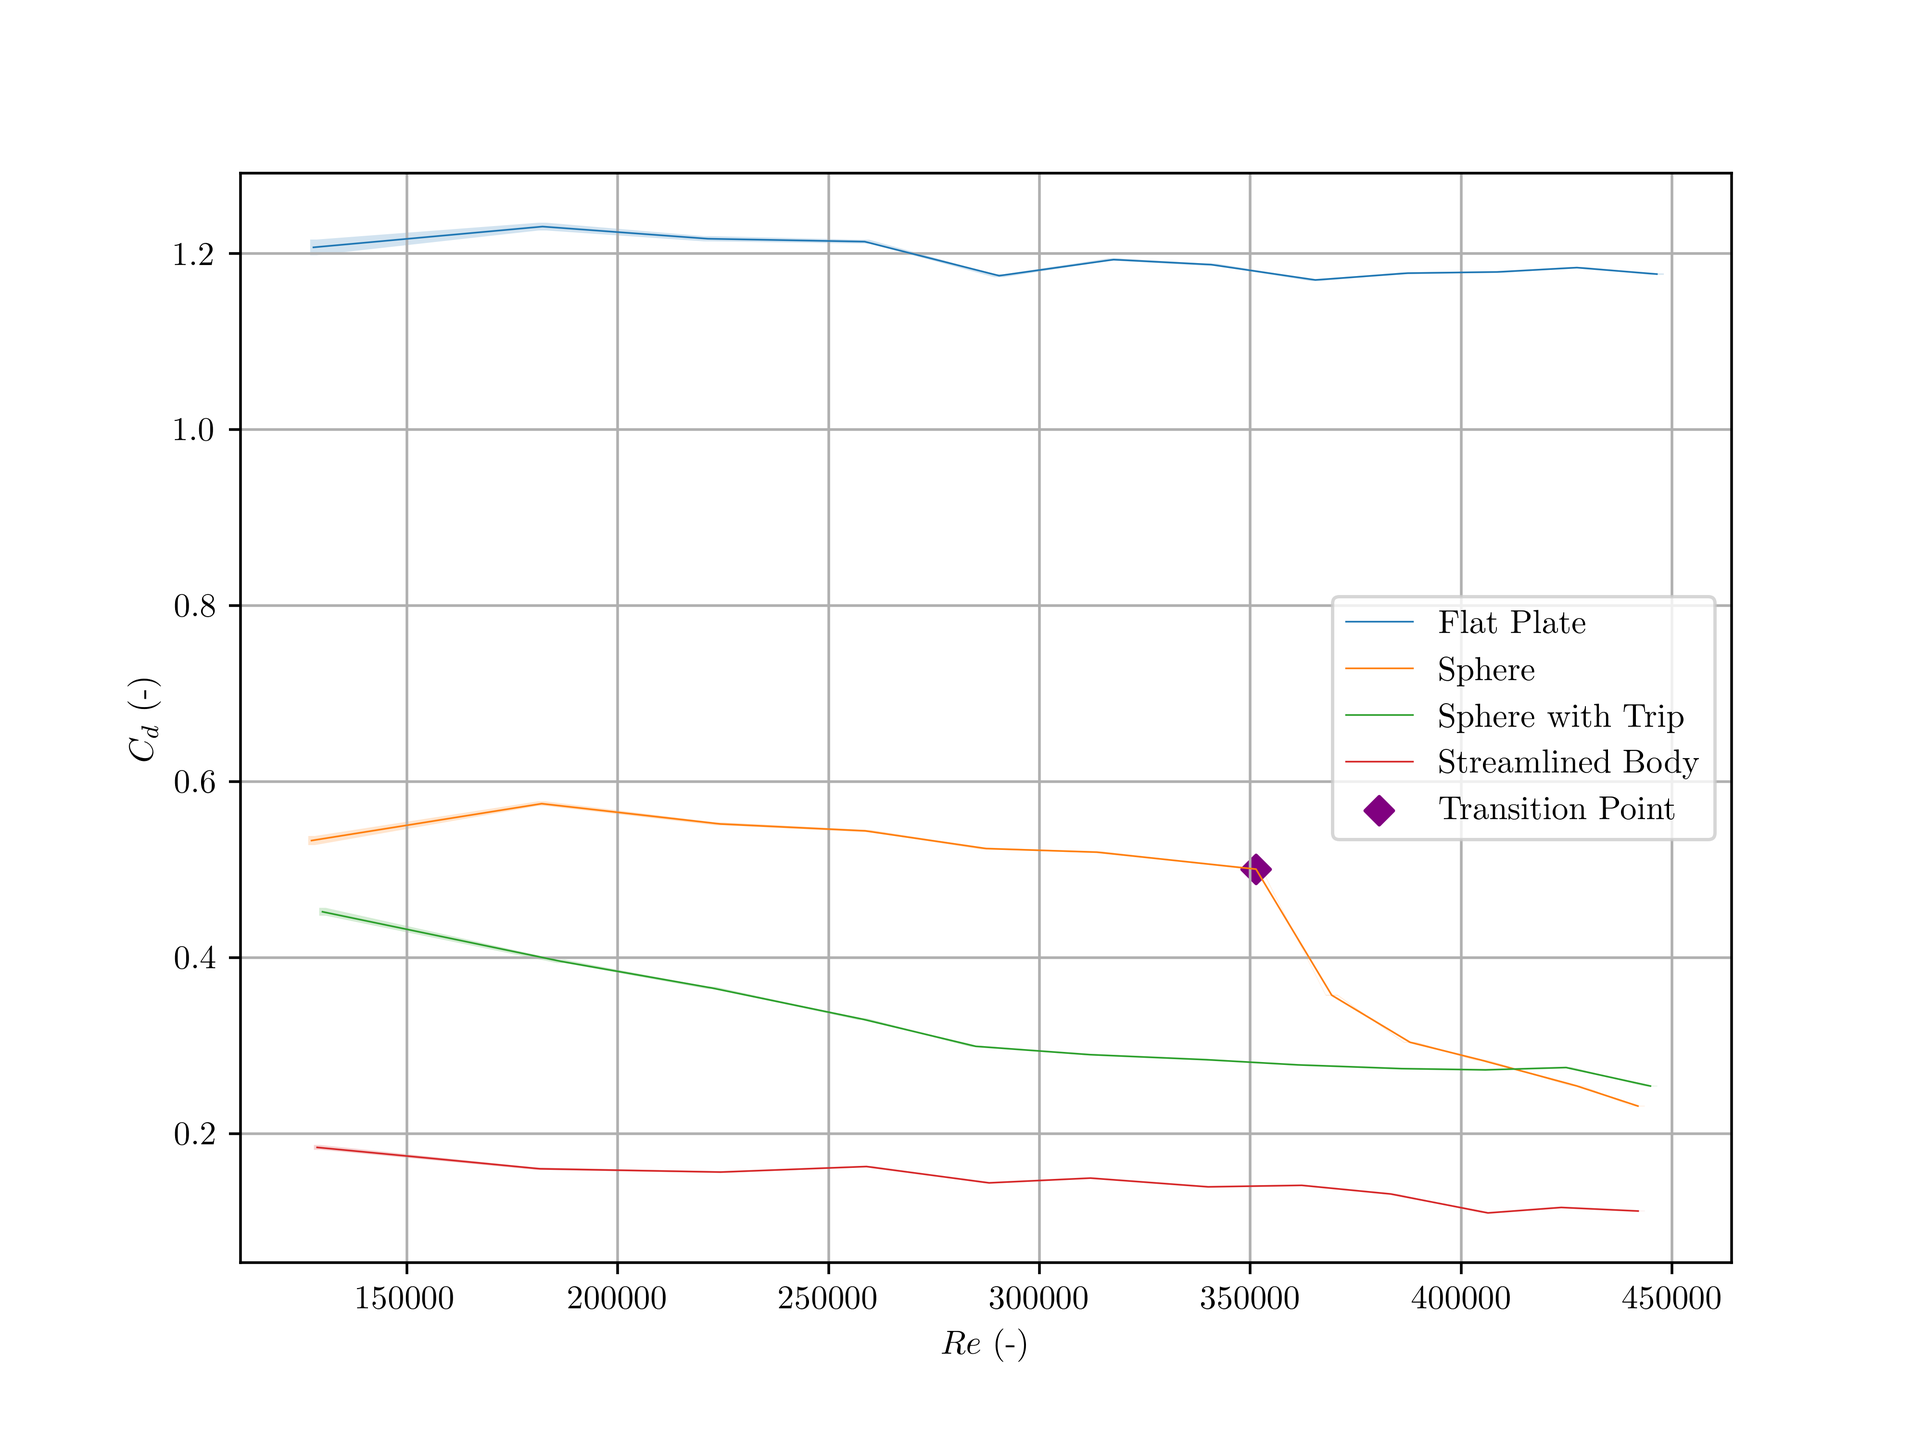
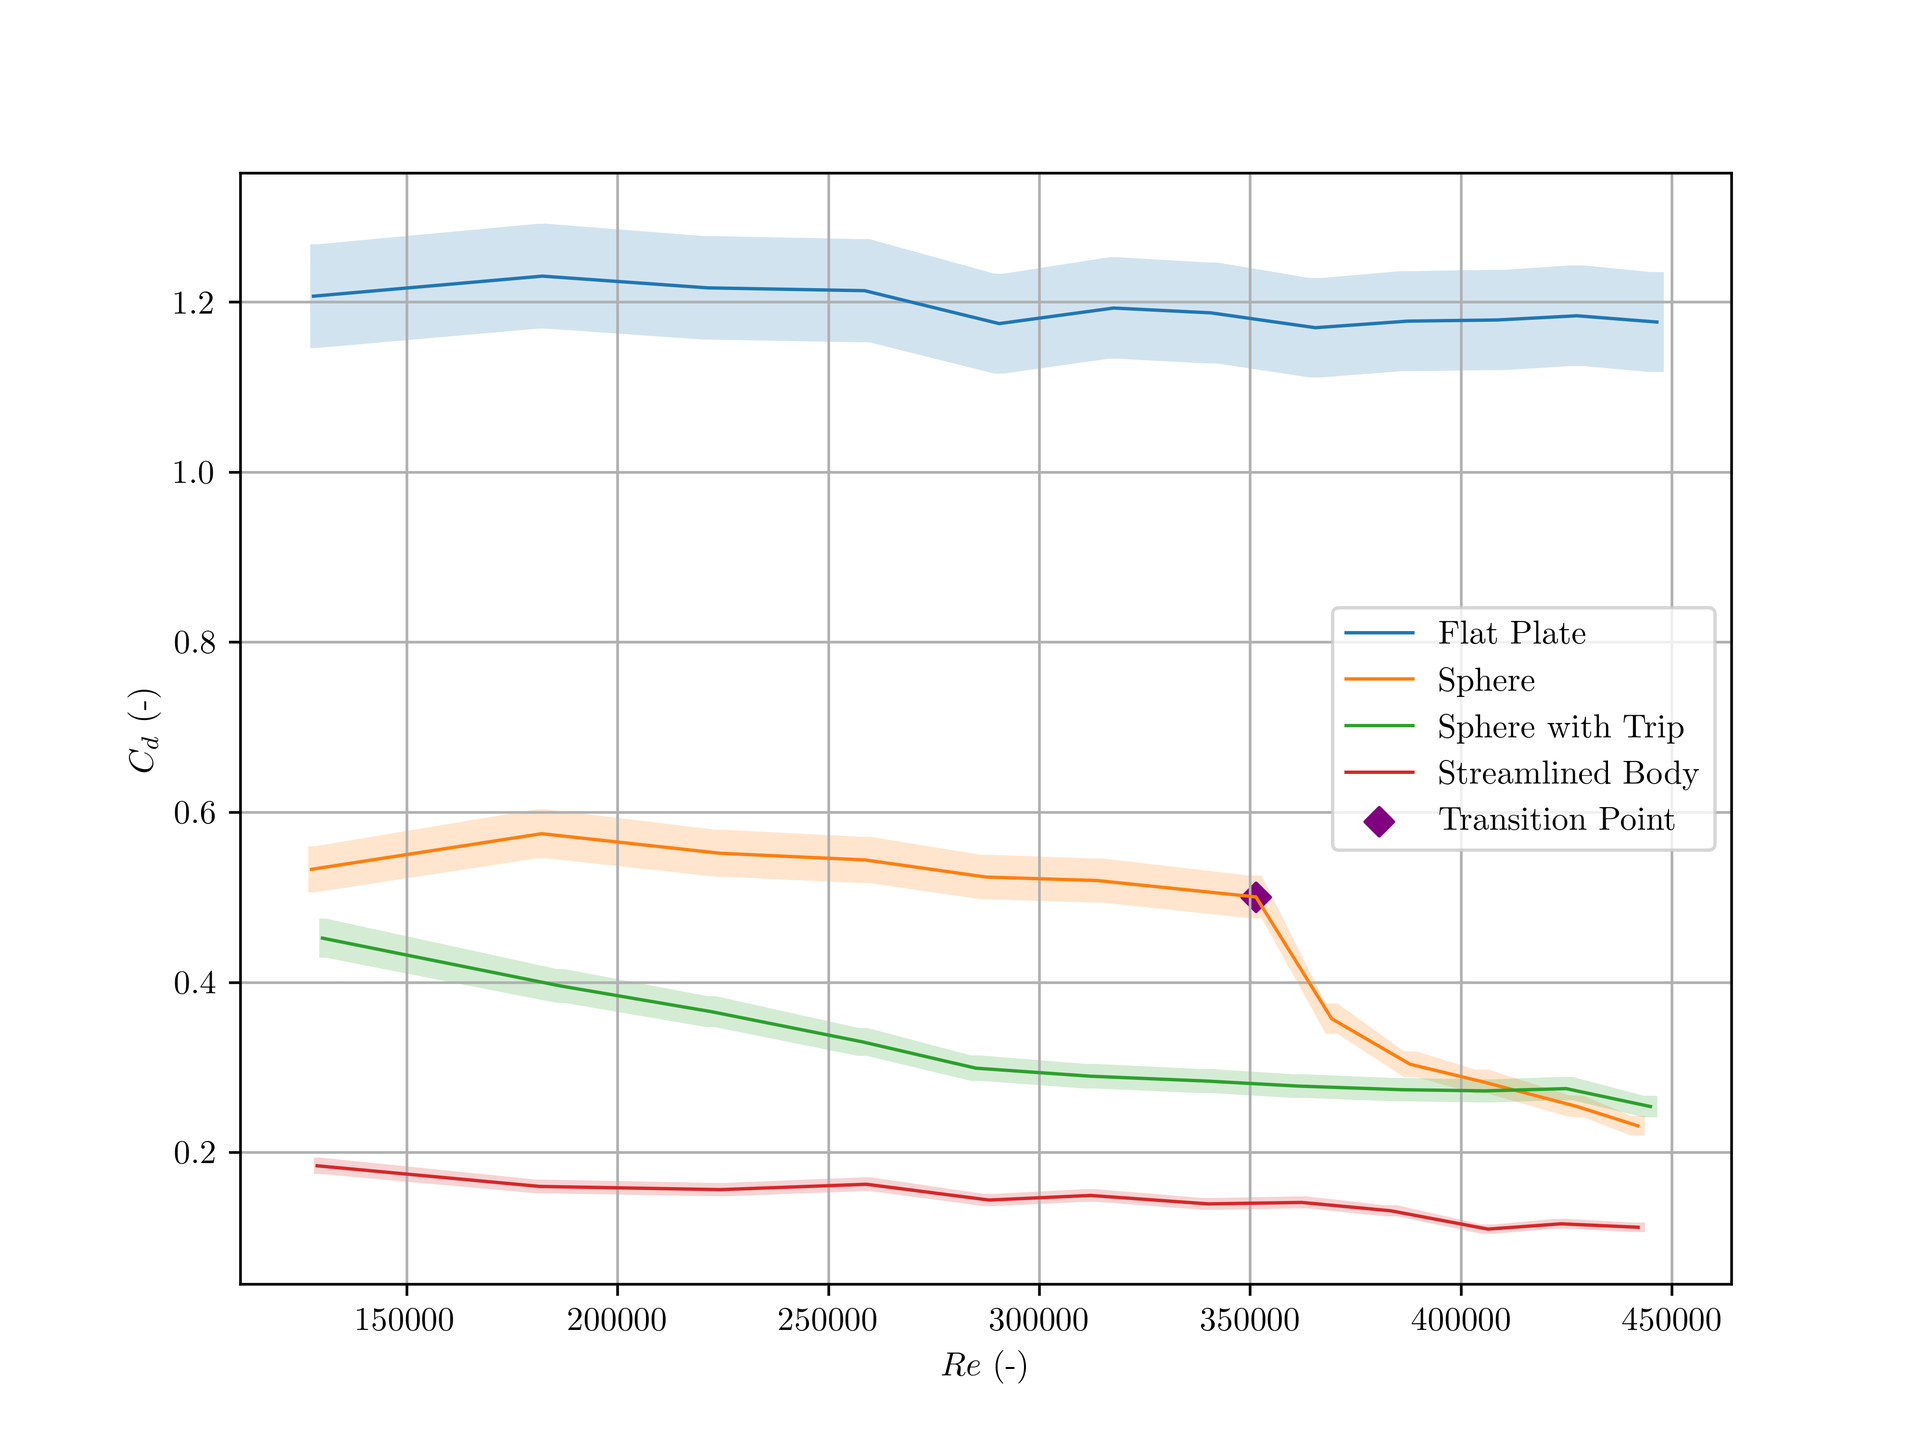
finished all short reports for the year

diff --git a/IIA/3A1/Drag_bluff_and_streamlined/report.tex b/IIA/3A1/Drag_bluff_and_streamlined/report.tex
@@ -34,10 +34,8 @@ The understanding of drag force for various bodies, and flow regimes is crucial 
 In this report, the drag force on a sphere, flat plate and streamlined body is measured and a graph of drag coefficient against Reynolds number is plotted.
 The spherical body was tested with and without a turbulence inducing trip wire to investigate the difference.
 The flow patterns around the bodies are also visualised using tufts and streamlines.
-
-\section{Method}
 Each body was placed in the Markham wind tunnel and 12 measurements of drag were taken at $1$mBar intervals of dynamic pressures up to $12$mBar.
-A counterweight was used to balance the drag force such that the body remained in the same position. The drag force was a factor of the weight added.
+A counterweight was used to balance the drag force such that the body remained in the same position.
 
 \section{Theory}
 
@@ -45,7 +43,7 @@ A counterweight was used to balance the drag force such that the body remained i
 
 The flow is taken to be invicid and in the large section before the contraction of the Markham Tunnel, the velocity is negligible, and so the pressure there is the stagnation pressure $p_0$.
 \begin{equation}
-    p_0 + 0 = p + \frac{1}{2}\rho U^2 \implies U = \sqrt{\frac{2(p_0-p)}{\rho_a}}
+    p_0 + 0 = p + \frac{1}{2}\rho_a U^2 \implies U = \sqrt{\frac{2(p_0-p)}{\rho_a}}
     \label{eq1}
 \end{equation}
 The pressure difference between the large section and working section, $p_0 - p$ is measured by a pressure transducer.
@@ -55,9 +53,16 @@ The pressure difference between the large section and working section, $p_0 - p$
 \end{equation}
 The drag coefficient is calculated from the drag force, $D$, the frontal area, $S$, and the dynamic pressure.
 \begin{equation}
-    D = C_d \frac{1}{2} \rho U^2 S \implies C_d = \frac{2D}{ \rho U^2 S}
+    D = C_d \frac{1}{2} \rho_a U^2 S \implies C_d = \frac{2D}{ \rho_a U^2 S}
+    \label{eq3}
 \end{equation}
-The density of air is calculated from measured temperature and pressure using the ideal gas law.
+This gives the total drag coefficient from both the body and the wire support structure.
+The support structure drag coefficient is given as $C_{d, support} = 0.10$ and so the drag coefficient of the body is calculated by subtracting this from the total drag coefficient.
+This value is also assumed to be constant with Reynolds number, but is taken to have an uncertainty which is discussed in the next section.
+\begin{equation}
+    C_{d, body} = C_{d, total} - C_{d, support}
+\end{equation}
+The density of air is calculated from measured temperature and atmospheric pressure using the ideal gas law.
 \begin{equation}
     \rho_a = \frac{P}{RT}
 \end{equation}
@@ -68,7 +73,7 @@ Sources of uncertainty in calculating Reynolds number in equation \ref{re} is sh
 \begin{equation}
     u(Re) = u(U) + u(d) + u(\nu)
 \end{equation}
-The relative uncertainties, $u(D)$ and $u(\nu)$ are negligible compared to $u(U)$ as the diameter was measured to a higher degree of precision and the viscosity change for the uncertainty in measured temperature is also negligible.
+The relative uncertainties, $u(d)$ and $u(\nu)$ are negligible compared to $u(U)$ as the diameter was measured to a higher degree of precision and the viscosity change for the uncertainty in measured temperature is also negligible.
 \begin{equation}
     u(Re) \approx u(U) = \frac{1}{2}u(p_0-p) + \frac{1}{2}u(\rho_a)
     \label{eq5}
@@ -80,13 +85,30 @@ From considering uncertainty from ideal gas law, .
 
 Sources of uncertainty in $C_d$, taking $S=\pi d^2/4$.
 \begin{equation}
-    u(C_d) = u(D) + u(\rho_a U^2) + u(S) = u(D) + u(\frac{1}{2}\rho_a U^2) + 2u(d)
+    u(C_d) = u(D) + u(\rho_a U^2) + u(S) = u(D) + u \left( \frac{1}{2}\rho_a U^2 \right) + 2u(d)
 \end{equation}
 Substituting equation \ref{eq1} and same reasoning as for equation \ref{eq5} that $u(d)$ is negligible.
 \begin{equation}
     u(C_d) \approx u(D) + u(p_0-p)
 \end{equation}
+However, this is the uncertainty in the total drag coefficient.
+The uncertainty in the drag coefficient is found using the uncertainty in the support structure drag coefficient as seen below.
+\begin{equation}
+    u(C_{d, body}) = \sqrt{u(C_{d, total})^2 + u(C_{d, support})^2}
+\end{equation}
+The support structure drag coefficient is given as $C_{d, support} = 0.10$, which is assumed to be accurate to the 2 decimal places, and so the absolute uncertainty is $\pm 0.005$.
 
+For completeness, the uncertainty in the corrected drag force is calculated below.
+\begin{equation}
+    D_{body} = D - D_{support} \implies u(D_{body} ) = \sqrt{u(D)^2 + u(D_{support})^2} \\
+\end{equation}
+\begin{equation}
+    D_{support} = C_{d, support} \frac{1}{2} \rho_a U^2 S \implies u(D_{support}) = u(C_{d, support}) + u \left( \frac{1}{2}\rho_a U^2 \right) + u(S)
+\end{equation}
+\begin{equation}
+    u(D_{support}) \approx u(C_{d, support}) + u(p_0-p)
+\end{equation}
+From these, the body drag and uncertainty band can be plotted against flow velocity.
 
 \subsection{Measurement Uncertainty}
 The measurement of dynamic pressure, $p_0-p$, was done with a calibrated pressure sensor, and so the source of absolute uncertainty is taken at the 2 decimal point precision of the sensor.
@@ -102,11 +124,18 @@ The Temperature was measured with a temperature gauge with a precision of $1^oC$
 The pressure was measured in inches of mercury, with a very high precision of $0.001$ inches.
 Changes in mercury's density for the small temperature changes are also negligible and so the atmospheric pressure has negligible uncertainty.
 
-\section{Results and Drawings}
+\section{Results}
 
 \begin{figure}[H]
     \centering
-    \includegraphics[width=0.8\textwidth]{Re_vs_Cd.png}
+    \includegraphics[width=0.75\textwidth]{U_vs_D.png}
+    \caption{Graph of corrected drag force, $D_c$ against flow velocity, $U$}
+    \label{fig:graph1}
+\end{figure}
+
+\begin{figure}[H]
+    \centering
+    \includegraphics[width=0.75\textwidth]{Re_vs_Cd.png}
     \caption{Graph of drag coefficient against Reynolds number for various bodies}
     \label{fig:figure1}
 \end{figure}
@@ -116,17 +145,17 @@ Changes in mercury's density for the small temperature changes are also negligib
     \begin{subfigure}[t]{0.45\textwidth}
         \centering
         \includegraphics[width=1\textwidth]{Images_Videos/early_seperation_annotated.jpg}
-        \caption{Seperation before shoulder at low Reynolds number}
+        \caption{Separation before shoulder at low Reynolds number}
         \label{fig:figure2}
     \end{subfigure}
     ~
     \begin{subfigure}[t]{0.48\textwidth}
         \centering
         \includegraphics[width=1\textwidth]{Images_Videos/late_seperation_annotated.jpg}
-        \caption{Seperation after shoulder at high Reynolds number}
+        \caption{Separation after shoulder at high Reynolds number}
         \label{fig:figure3}
     \end{subfigure}
-    \caption{Seperation points for flow over sphere at low and high Reynolds number indicated by parafin oil}
+    \caption{Separation points for flow over sphere at low and high Reynolds number indicated by parafin oil}
 \end{figure}
 
 \begin{figure}[H]
@@ -188,14 +217,14 @@ Changes in mercury's density for the small temperature changes are also negligib
     \begin{subfigure}[t]{0.48\textwidth}
         \centering
         \includegraphics[width=1\textwidth]{Images_Videos/stream_streamlined_2.jpg}
-        \caption{Seperation before shoulder}
+        \caption{Separation before shoulder}
         \label{fig:figure10}
     \end{subfigure}
     ~
     \begin{subfigure}[t]{0.42\textwidth}
         \centering
         \includegraphics[width=1\textwidth]{Images_Videos/Streamlined_8milibar.JPG}
-        \caption{Seperation after shoulder at higher Re}
+        \caption{Separation after shoulder at higher Re}
         \label{fig:figure11}
     \end{subfigure}
     \caption{Streamlines and tuft visualisation for streamlined body}
@@ -205,29 +234,37 @@ Changes in mercury's density for the small temperature changes are also negligib
 
 % 1. Discuss the observations and measurements of the forces and flow fields around the three bodies. Sketch the flow patterns.
 
-Generally, the drag force was observed to increase with increasing flow velocity, as expected.
-However for the untripped sphere, the drag force decreased for an i ncrease in flow speed at a critical Reynolds number.
-Temperature was observed to increase in the tunnel by $3^oC$ over the course of the experiment, which was accounted for in the calculation of air density and viscosity.
+From figure \ref{fig:graph1}, the drag force is shown to increase with flow velocity in all cases except the untripped sphere.
+However for the untripped sphere, after a critical point, the drag force started to decrease for an increase in flow speed.
+Temperature was observed to increase in the tunnel by $3^oC$ over the course of the experiment, which was accounted for in the calculation of air density and tabulated viscosity.
 This is caused by the recycled air in the Markham tunnel being heated by the fan compression.
-
-The flow patterns around the bodies were visualised using tufts which are parallel to the streamlines.
-These can be seen in figures \ref{fig:figure5}, \ref{fig:figure7} and \ref{fig:figure11} for the flat plate, sphere and streamlined body respectively.
-
-These show...
-
 
 Figure \ref{fig:figure1} shows the plot of drag coefficient, $C_d$ vs Reynolds number, $Re$ for the various bodies. 
 For the sphere, the critical Reynolds number where the drag coefficient rapidly decreases is marked on the graph.
-This is due to seperation occuring behind the maximum circumference shoulder and so the size of the size of the wake is reduced.
-This was further demonstrated by spraying parafin oil on the sphere and observing where the oil collected on the surface.
-Photos of the seperation point at low and high Reynolds number are shown in figures \ref{fig:figure2} and \ref{fig:figure3} respectively.
+This is due to separation occurring behind the maximum circumference shoulder and so the size of the wake is reduced.
+The position of separation was confirmed to be behind the shoulder by spraying parafin oil on the sphere and observing where the oil collected on the surface.
+Photos of the separation point at low and high Reynolds number are shown in figures \ref{fig:figure2} and \ref{fig:figure3} respectively.
 
-The error in the drag coefficient is plotted as a transparent band on the graph.
-This is however only visible at low Reynolds number, as relative uncertainty is larger at smaller dynamic pressures.
-The true uncertainty is likely to increase at higher Reynolds number due to the increased fluctuations in the drag reading, not accounted for in the uncertainty analysis.
+The error is plotted as a transparent band on both figures \ref{fig:graph1} and \ref{fig:figure1}.
+The relative uncertainty in both body drag force and body drag coefficient decrease with increasing flow velocity.
+This is because both drag and dynamic pressure measurements increase, with constant absolute uncertainty, and so the relative uncertainty in these quantities decreases.
+However, the true uncertainty is likely to increase at higher Reynolds number due to the increased fluctuations in the drag reading, not accounted for in the uncertainty analysis.
+
+\newpage
+
+
+
+
+The flow patterns around the bodies were visualised using tufts which are parallel to the streamlines.
+These can be seen in figures \ref{fig:figure5}, \ref{fig:figure7} and \ref{fig:figure11} for the flat plate, sphere and streamlined body respectively.
+It can be seen that the area of the wake of the flat plate is much larger than the frontal area.
+The Flow patterns around the sphere at both low and high Reynolds number were also visualised using tufts in figures \ref{fig:figure7}, and \ref{fig:figure9} respectively.
+Figure \ref{fig:figure9} shows an additional tuft below the top of the sphere along a streamline, which shows that the size of the wake is reduced.
+This is also shown by separation occurring after the shoulder of the sphere at high Reynolds number, as seen in figure \ref{fig:figure3}.
+The tufts behind the streamlined body are shown in figure \ref{fig:figure11}. The streamlines were observed to be effectively parallel and so separation occurs at the end of the body and the area of the wake is negligible.
 
 This reduction in wake significantly reduces the pressure drag.
-It can also be seen that the sphere with trip wire has a lower drag coefficient at smaller reynolds numbers.
+It can also be seen that the sphere with trip wire has a lower drag coefficient at smaller Reynolds numbers.
 This is because the trip wire causes the boundary layer to become turbulent, and so the boundary layer is turbulent for longer, reducing the size of the wake and hence the pressure drag.
 
 % 4. Estimate the errors in the drag coefficients at the lowest speed for all the bodies and mark on your graph. Is the error in the drag coefficient constant? You must include any equations you use to estimate errors in your report.
@@ -236,15 +273,13 @@ This is because the trip wire causes the boundary layer to become turbulent, and
 
 % 5. Explain the difference in the Cd versus Reynolds number curves for the different bodies in terms of the flow patterns and the different contributions of form and skin-friction drag.
 
-The various bodies have different contributions of form and skin friction drag.
-
-The flat plate has the smallest wetted area, and the largest wake. The wake is larger than the frontal area, leading to a drag coefficient greater than 1.
-This suggests that the form drag is significantly greater than the skin friction drag for the flat plate.
-
-The sphere in low Reynolds number flow, seperation occurs before the shoulder and so the wake area is slightly larger than the frontal area.
+The various bodies have different contributions to total drag from form and skin friction drag.
+The flat plate has the smallest wetted area, and the largest wake. The wetted area is also normal to the drag force, and so the drag force due to the skin friction is negligible.
+This suggests that the form drag contributes significantly the total drag force of the flat plate.
+The sphere in low Reynolds number flow, separation occurs before the shoulder and so the wake area is slightly larger than the frontal area.
 The wetted area is larger than the flat plate, however the form drag is still the significant contributor to the total drag.
 
-Considering the tripped sphere where seperation occurs after the shoulder, the wake area is smaller than the frontal area and so the form drag is reduced.
+Considering the tripped sphere where separation occurs after the shoulder, the wake area is smaller than the frontal area and so the form drag is reduced.
 The skin friction drag is increased both due to an increase in wetted area and the now turbulent boundary layer.
 Skin friction drag of a turbulent boundary layer is greater than laminar boundary layer due to an increased velocity gradient at the surface as seen in the IB Boundary Layer lab.
 Both of these effects contribute to the total drag coefficient.
@@ -252,22 +287,23 @@ A rather interesting observation is that as the drag coefficient of the tripped 
 This may be due to the larger turbulent boundary layer of the tripped sphere, as the position of the trip wire is before the shoulder.
 However, this is not conclusive due to the fluctuations in drag measurements at higher Reynolds numbers.
 
-Streamlined body has the largest wetted area, and a negligible wake area giving it the smallest drag coefficient of the bodies. 
+The streamlined body has the largest wetted area, and a negligible wake area giving it the smallest drag coefficient of the bodies. 
 This suggests that the skin friction drag is the significant contributor to the total drag.
 
 % 6. Explain what is meant by fineness ratio and why there is an optimum for a “streamlined body”.
 
 For a streamlined body, the fineness ratio is defined as the ratio of the length of the body to the diameter of the body.
 The form drag is proportional to frontal area and skin friction drag is proportional to wetted area.
-The optimum fineness ratio is at the minimum wetted area such that seperation occurs at the end of the body.
+The optimum fineness ratio is at the minimum wetted area such that separation occurs at the end of the body.
 This minimises the form drag and skin friction drag, giving the minimum total drag coefficient.
 
 \section{Conclusion}
 
-The drag coefficient of various bodies were measured and plotted against Reynolds number.
-The drag coefficient of the sphere was observed to decrease at a critical Reynolds number due to seperation occuring after the shoulder.
-Flow at lower Reynolds numbers can be tripped to induce turbulence within the boundary layer, reducing the form drag on a bluff body.
-One about measurements?
-One about flow patterns?
+The drag forces of bluff and streamlined bodies were measured and plotted against various flow velocities.
+Drag coefficients were calculated and plotted against Reynolds number.
+The drag coefficient of the sphere was observed to decrease at a critical Reynolds number which was shown to be due to separation occurring after the shoulder.
+Flow at lower Reynolds numbers can be tripped to induce turbulence within the boundary layer, reducing the wake and total drag on a spherical body.
+The flow patterns around the bodies were visualised using tufts which were used to draw streamlines and determine wetted and wake areas.
+Streamlined bodies have a minimum drag coefficient at a certain fineness ratio, where the wetted area is minimised for no wake.
 
 \end{document}
